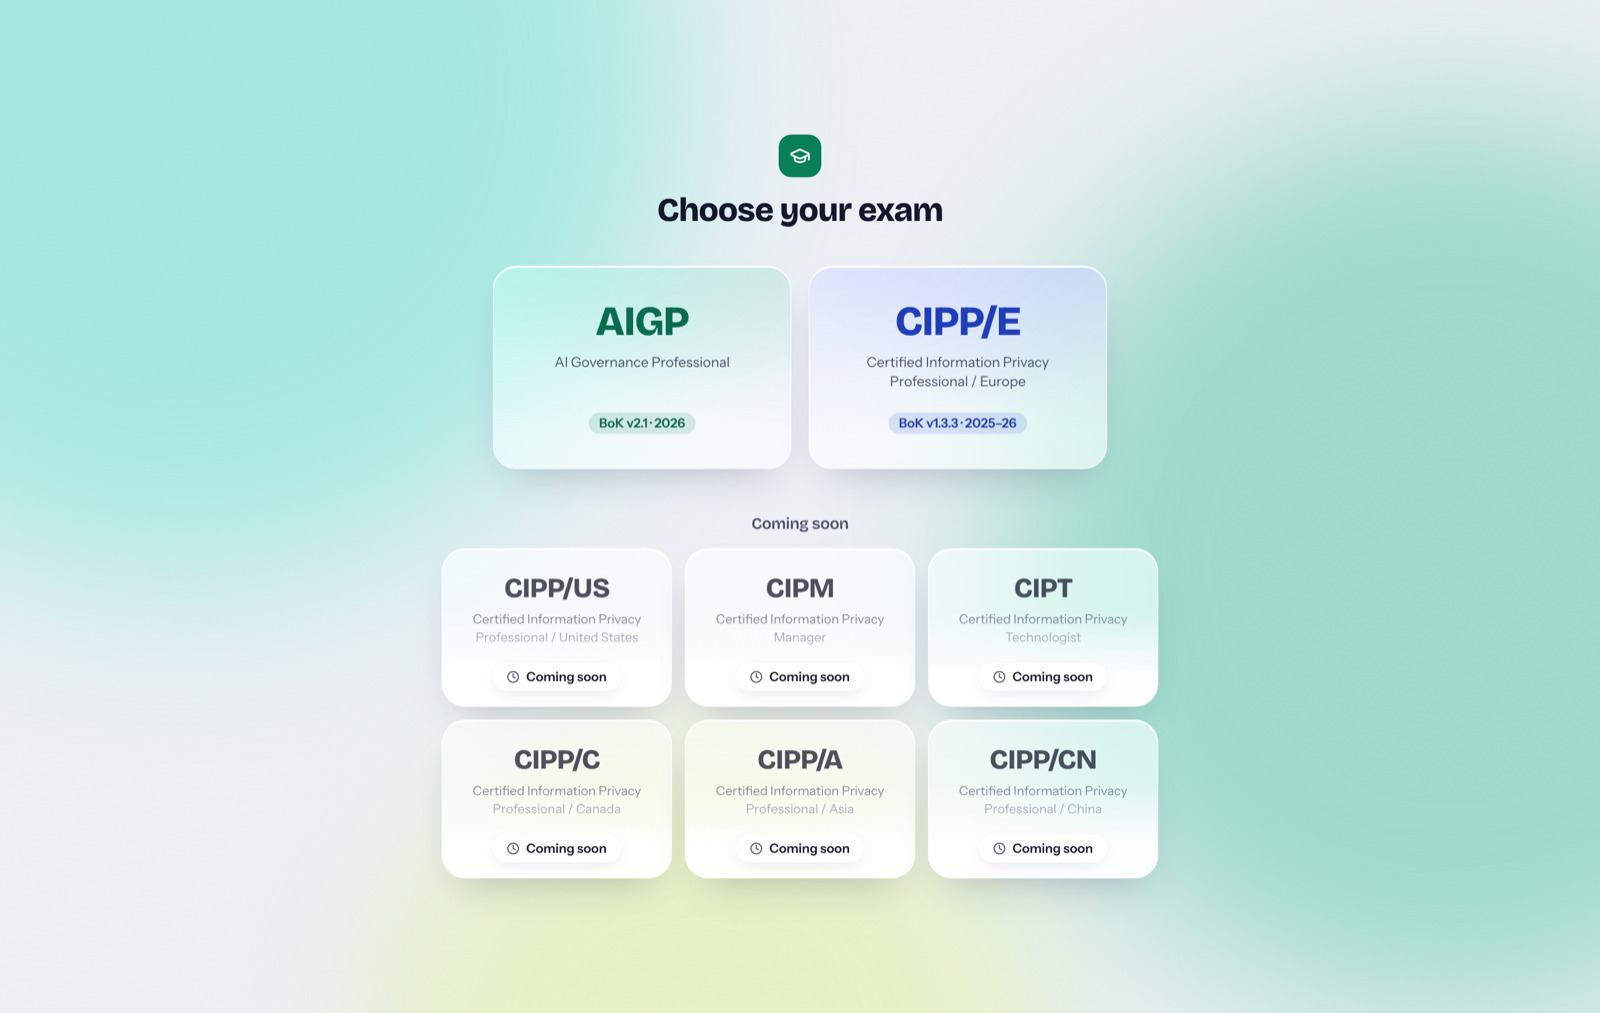
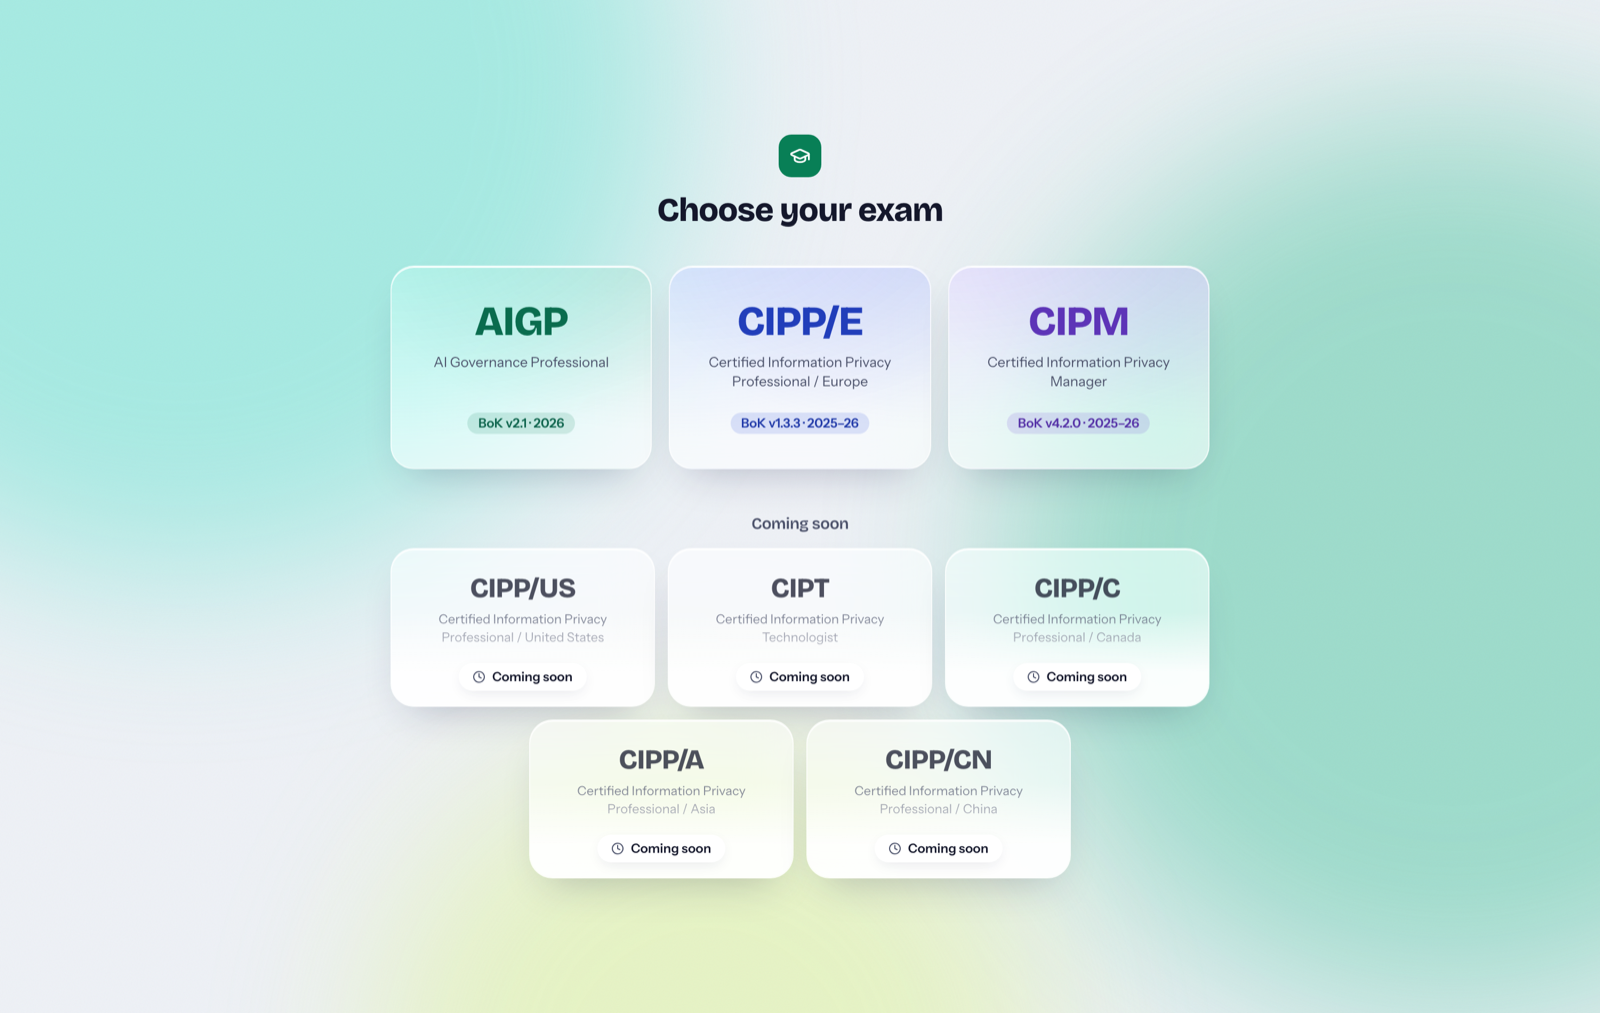
README: CIPM as the third live exam
Three-exam picker and welcome screenshots, a CIPM mock-papers shot in its amethyst light, a CIPM column in the coverage table, and the coming-soon list down to five.

diff --git a/README.md b/README.md
@@ -2,7 +2,7 @@
 
 **An exam simulator for IAPP certifications, built because the material I could buy told me *what* to know and never *why I kept getting questions wrong*.**
 
-It started as a study system for the AIGP exam. It now runs two exams, **AIGP** and **CIPP/E**, and the rest of the IAPP lineup is queued on the exam picker.
+It started as a study system for the AIGP exam. It now runs three exams, **AIGP**, **CIPP/E** and **CIPM**, and the rest of the IAPP lineup is queued on the exam picker.
 
 Use the hosted copy at **[aigp-coach.vercel.app](https://aigp-coach.vercel.app)**: create a free account, tell it your first name, pick your exam, and go. Your progress backs up to your account automatically and you stay signed in until you log out. Or clone it and run your own with **no account at all**. A clone keeps everything in your browser: no tracking, no API keys, no configuration.
 
@@ -35,7 +35,7 @@ I built the thing I wanted. Five decisions shaped it.
 
 **Diagnose the miss, not the answer.** Every question carries a rationale, a line on why each wrong option fails, and a trap type. After answering I tag the miss as Knowledge, Technique, or Read-error: I did not know it, I knew it and attacked the question wrong, or I simply misread the stem. Those three need completely different remedies, and lumping them together is why "just do more questions" stops working somewhere around the fourth hundred.
 
-The CIPP/E pack goes one step further. Real papers come down to two options that both look right, so every CIPP/E question is written around a named near-miss: an option that is true in general and wrong here on one precise point. Pick it and the reveal says so, then spells out the one discriminator between the two.
+The CIPP/E and CIPM packs go one step further. Real papers come down to two options that both look right, so every question in them is written around a named near-miss: an option that is true in general and wrong here on one precise point. Pick it and the reveal says so, then spells out the one discriminator between the two.
 
 <img src="docs/practice.png" alt="A CIPP/E practice question in dark mode after a wrong answer: the chosen option is marked Your answer and Near-miss, the correct option is highlighted, and a near-miss panel names the one discriminator between them" width="100%">
 
@@ -47,11 +47,11 @@ The CIPP/E pack goes one step further. Real papers come down to two options that
 
 <img src="docs/progress.png" alt="The progress page: a readiness orb at 83, the verdict Not yet ready with a checklist for the projected score, the domain floor and the full mock, the competencies dragging the score down with drill links, and totals for answers, accuracy, modules and mocks" width="100%">
 
-**Fixed papers, where the record is the product.** The mock module is a cluster of fixed, mutually disjoint papers rather than random pulls. AIGP has three blueprint-proportional 100-question forms, a 50-question Hard Gauntlet rated hardest throughout, a 40-question Trap Lab where every item carries a named trap, and a 25-question deep-dive per domain. CIPP/E has a 90-question form, its own Gauntlet and Trap Lab, and five domain deep-dives. Papers run on real exam timing, pause cleanly mid-run, and give no feedback until submission, then full reasoning for every miss. The mock homescreen keeps the whole record: score trajectory against the pass line, per-domain readiness with trend, weakest competencies, technique leaks, a vault of every question ever missed, and the paper to sit next.
+**Fixed papers, where the record is the product.** The mock module is a cluster of fixed, mutually disjoint papers rather than random pulls. AIGP has three blueprint-proportional 100-question forms, a 50-question Hard Gauntlet rated hardest throughout, a 40-question Trap Lab where every item carries a named trap, and a 25-question deep-dive per domain. CIPP/E has a 90-question form, its own Gauntlet and Trap Lab, and five domain deep-dives. CIPM has two 90-question forms, a Gauntlet, a Trap Lab and six domain deep-dives. Papers run on real exam timing, pause cleanly mid-run, and give no feedback until submission, then full reasoning for every miss. The mock homescreen keeps the whole record: score trajectory against the pass line, per-domain readiness with trend, weakest competencies, technique leaks, a vault of every question ever missed, and the paper to sit next.
 
 <img src="docs/mock-insights.png" alt="The AIGP mock exam record in dark mode: the latest full paper at 458 out of 500 with a pass badge, best score and open misses, the next recommended paper, a score track against the pass line, and per-domain accuracy with trend" width="100%">
 
-**The laws get their own room.** Two days out from the exam my misses all had the same shape: laws, frameworks, and the deliberate confusion between them. Law Lab is the answer. Every instrument on the Body of Knowledge gets a tappable mindmap of facts you lock in one by one as you learn them cold (16 maps and 233 facts for AIGP, 10 maps and 279 facts for CIPP/E), trigger keywords that map exam phrasing to the right law, side-by-side tables for the pairs the exam loves to swap (DPIA vs FRIA, provider vs deployer, controller vs processor), and a timed trigger drill with a personal best. The top card is live: it names your weakest law competencies from your own attempt history, so the tab always opens with the reason it exists.
+**The laws get their own room.** Two days out from the exam my misses all had the same shape: laws, frameworks, and the deliberate confusion between them. Law Lab is the answer. Every instrument on the Body of Knowledge gets a tappable mindmap of facts you lock in one by one as you learn them cold (16 maps and 233 facts for AIGP, 10 maps and 279 facts for CIPP/E, 12 maps and 278 facts for CIPM), trigger keywords that map exam phrasing to the right law, side-by-side tables for the pairs the exam loves to swap (DPIA vs FRIA, provider vs deployer, controller vs processor, PIA vs DPIA), and a timed trigger drill with a personal best. The top card is live: it names your weakest law competencies from your own attempt history, so the tab always opens with the reason it exists.
 
 <img src="docs/lawlab-mindmap.png" alt="An AIGP Law Lab mindmap of the EU AI Act: lab progress and drill best, the weakest law competencies from practice, region filters, and the risk-tiers branch with each fact locked in with a green check" width="100%">
 
@@ -61,13 +61,15 @@ The CIPP/E pack goes one step further. Real papers come down to two options that
 
 Every exam lives in the app as a self-contained content pack: curriculum, question bank, fixed mock papers, Law Lab, glossary. Each keeps its own progress, streak, mocks and readiness model, driven by its official blueprint weights, and the switcher under the logo moves between them without mixing anything up.
 
-**AIGP** is the original, full-depth pack. **CIPP/E** (BoK v1.3.3, the five-domain 2025–26 structure) is the second, written to the near-miss standard from its first question. **CIPP/US, CIPM, CIPT, CIPP/C, CIPP/A and CIPP/CN** sit on the picker as coming soon.
+**AIGP** is the original, full-depth pack. **CIPP/E** (BoK v1.3.3, the five-domain 2025–26 structure) is the second, written to the near-miss standard from its first question. **CIPM** (BoK v4.2.0, in force since September 2025) is the third, and the first with six domains. It is a program-management exam rather than a law exam, so most of its questions are scenarios about running a privacy program: what to do FIRST, who owns a task, which assessment or metric fits. **CIPP/US, CIPT, CIPP/C, CIPP/A and CIPP/CN** sit on the picker as coming soon.
 
-<img src="docs/exam-picker.png" alt="The exam picker: AIGP and CIPP/E as live tiles, and six coming-soon tiles for CIPP/US, CIPM, CIPT, CIPP/C, CIPP/A and CIPP/CN" width="100%">
+<img src="docs/exam-picker.png" alt="The exam picker: AIGP, CIPP/E and CIPM as live tiles, and five coming-soon tiles for CIPP/US, CIPT, CIPP/C, CIPP/A and CIPP/CN" width="100%">
+
+<img src="docs/cipm-mock.png" alt="The CIPM mock exams page in dark mode and its amethyst light: Full Mock Form A as the next paper, then Form B, a Hard Gauntlet, a Trap Lab and a deep-dive for each of the six domains" width="100%">
 
 ## The interface
 
-The first version looked like what it was: a textbook with a progress bar. The current one takes its idea from the subject. AI governance and data protection both come down to transparency, so the interface is made of glass: frosted panels over a soft field of light. Each exam has its own light, a lagoon green for AIGP and a European blue for CIPP/E, so you know which exam you are in without reading a label. Navigation is a floating glass rail with a lens that slides to the page you pick, and a dock on phones. Everything personal sits behind the avatar in the top-right corner: profile, settings, colour mode and sign out.
+The first version looked like what it was: a textbook with a progress bar. The current one takes its idea from the subject. AI governance and data protection both come down to transparency, so the interface is made of glass: frosted panels over a soft field of light. Each exam has its own light, a lagoon green for AIGP, a European blue for CIPP/E and amethyst for CIPM, so you know which exam you are in without reading a label. Navigation is a floating glass rail with a lens that slides to the page you pick, and a dock on phones. Everything personal sits behind the avatar in the top-right corner: profile, settings, colour mode and sign out.
 
 Light and dark are designed as a pair, contrast is measured rather than eyeballed, focus rings are always visible, and the motion stops when your system asks for reduced motion.
 
@@ -85,19 +87,19 @@ Light and dark are designed as a pair, contrast is measured rather than eyeballe
 
 Coverage per exam:
 
-| | AIGP | CIPP/E |
-|---|---|---|
-| Body of Knowledge | v2.1, 2026 | v1.3.3, 2025–26 |
-| Real exam | 100 questions, 165 minutes | 90 questions, 150 minutes |
-| Domains / competencies | 4 / 13 | 5 / 18 |
-| Topics | 101 | 60 |
-| Questions | 406, of which 211 sit in the hard pool the mock papers draw from | 202, of which 108 sit in the hard pool |
-| Fixed mock papers | 9 | 8 |
-| Law Lab | 16 maps, 233 facts, 12 confusable pairs | 10 maps, 279 facts, 13 confusable pairs |
-| Glossary | 105 terms | 90 terms |
-| Flashcards | 33 | 24 |
+| | AIGP | CIPP/E | CIPM |
+|---|---|---|---|
+| Body of Knowledge | v2.1, 2026 | v1.3.3, 2025–26 | v4.2.0, 2025–26 |
+| Real exam | 100 questions, 165 minutes | 90 questions, 150 minutes | 90 questions, 150 minutes |
+| Domains / competencies | 4 / 13 | 5 / 18 | 6 / 21 |
+| Topics | 101 | 60 | 54 |
+| Questions | 406, of which 211 sit in the hard pool the mock papers draw from | 202, of which 108 sit in the hard pool | 227, of which 119 sit in the hard pool |
+| Fixed mock papers | 9 | 8 | 10 |
+| Law Lab | 16 maps, 233 facts, 12 confusable pairs | 10 maps, 279 facts, 13 confusable pairs | 12 maps, 278 facts, 14 confusable pairs |
+| Glossary | 105 terms | 90 terms | 93 terms |
+| Flashcards | 33 | 24 | 24 |
 
-Both exams are scored on the IAPP's 100 to 500 scale with the pass at 300, and both use all six question types.
+All three exams are scored on the IAPP's 100 to 500 scale with the pass at 300, and all three use the same six question types.
 
 **Stack:** Next.js 16, TypeScript, Tailwind v4, Zustand, Framer Motion, Recharts, with Bricolage Grotesque and Instrument Sans for type. Supabase is optional and powers accounts, sync and content updates. Progress lives in `localStorage` first; nothing is sent anywhere unless you create an account or mint a sync code (both below).
 
@@ -134,7 +136,7 @@ The AIGP pack's files still live in `/content`, their home from before there was
 | `flashcards.ts` | Spaced-repetition cards |
 | `updates.ts` | The law-updates feed |
 
-CIPP/E uses the same shapes in `content/exams/cippe/`, split by domain: `topics-d1.ts` … `topics-d5.ts` and `questions-d1.ts` … `questions-d5.ts` (each with its share of the hard pool), plus `lawlab.ts`, `library.ts`, `flashcards.ts` and `updates.ts`.
+CIPP/E and CIPM use the same shapes in `content/exams/cippe/` and `content/exams/cipm/`, split by domain: `topics-d1.ts`, `questions-d1.ts` and so on, one pair per domain (each questions file carries its share of the hard pool), plus `lawlab.ts`, `library.ts`, `flashcards.ts` and `updates.ts`.
 
 Add your own questions, correct mine, or rewrite the topics in your own words, which is the version that sticks. If you fix something wrong, a PR is welcome.
 
@@ -152,7 +154,7 @@ Add your own questions, correct mine, or rewrite the topics in your own words, w
 
 ## Credits and provenance
 
-Most of these questions are mine. On AIGP, 71 of the 406 are adapted from AIGP study material that circulates freely among candidates, and they carry a `community` tag in the source so you can see which is which. The CIPP/E pack is original throughout.
+Most of these questions are mine. On AIGP, 71 of the 406 are adapted from AIGP study material that circulates freely among candidates, and they carry a `community` tag in the source so you can see which is which. The CIPP/E and CIPM packs are original throughout.
 
 I cannot trace those adapted items back to an original author. That is a real limitation, not a disclaimer, and it is why this is shared for personal study rather than sold. If you published something I have adapted and want it credited differently or removed, open an issue and I will action it.
 
